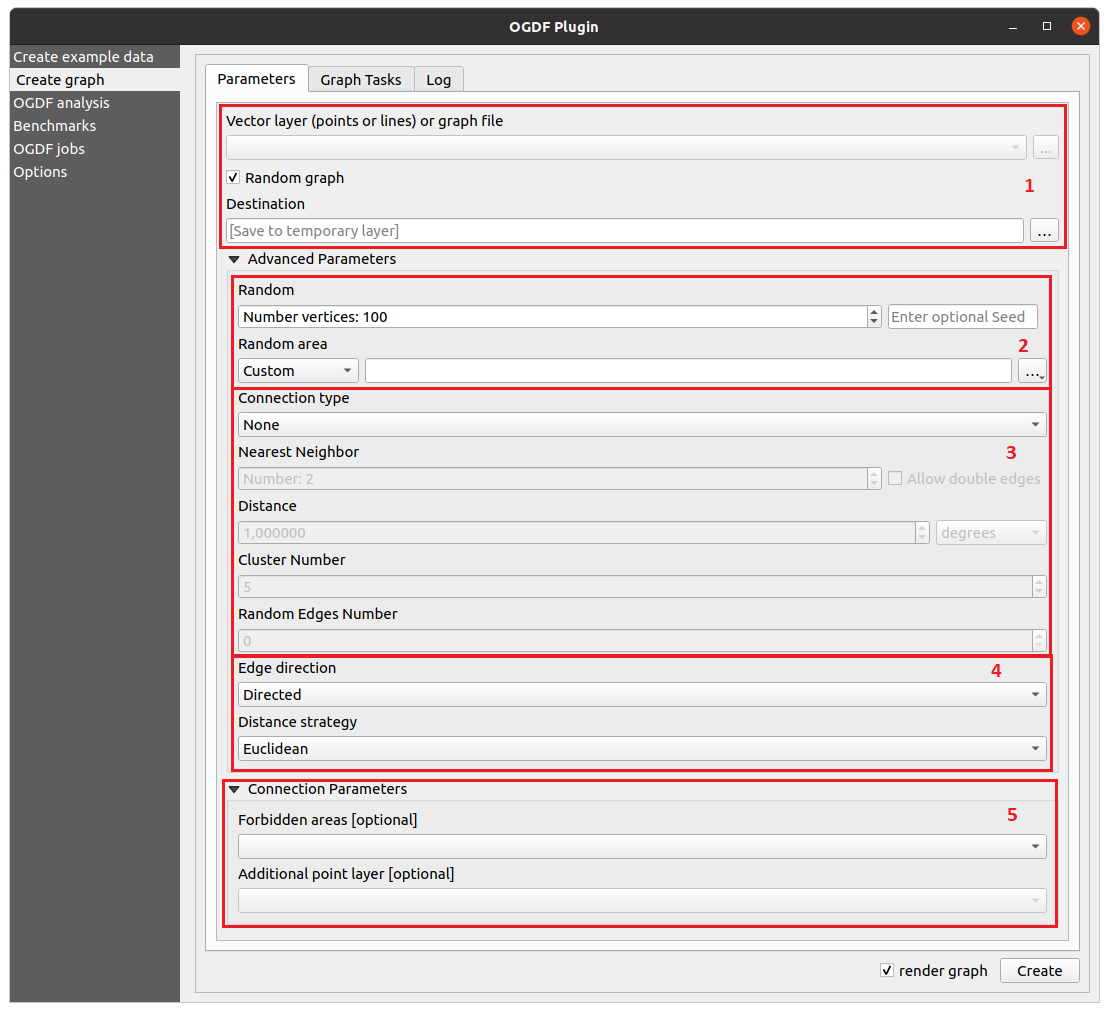
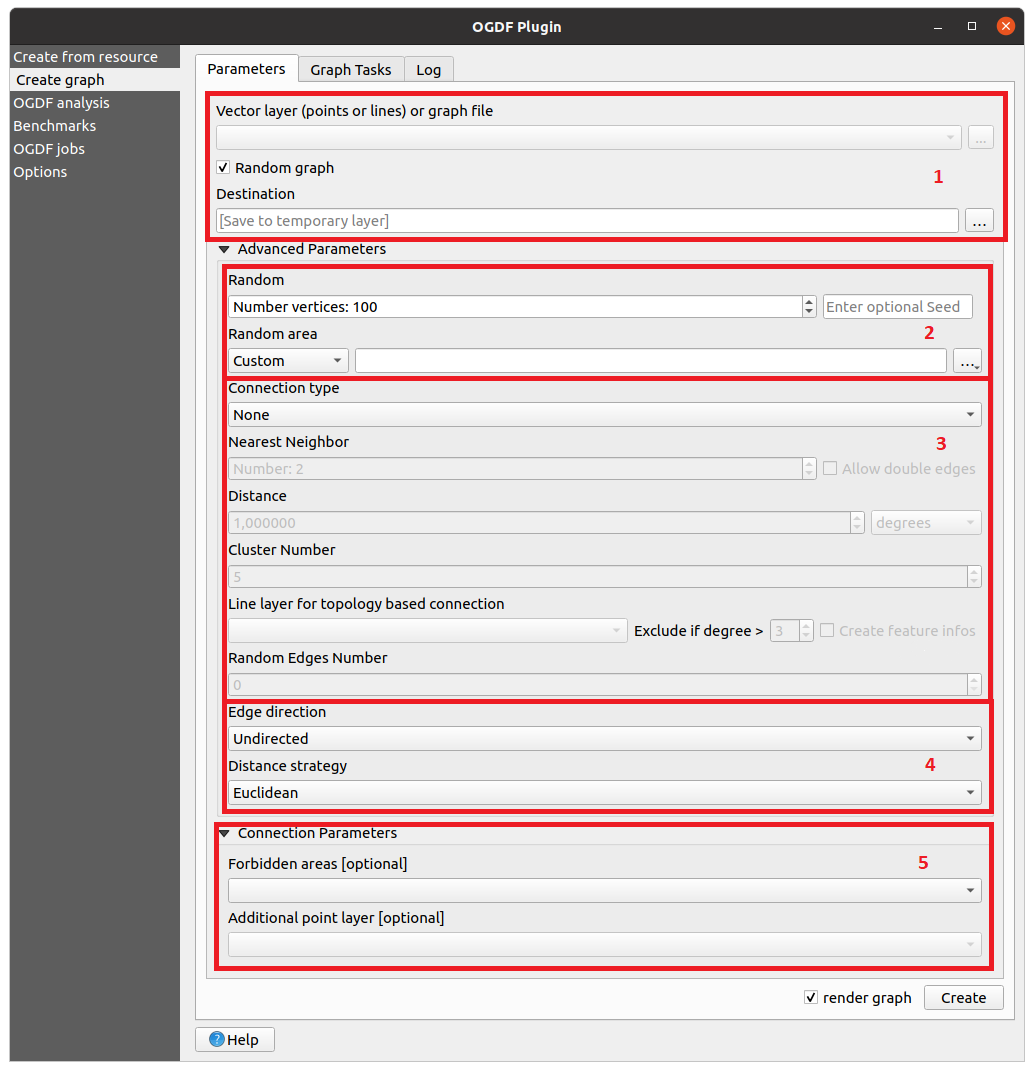
Commit

diff --git a/docs/graphbuilder.md b/docs/graphbuilder.md
@@ -22,20 +22,28 @@ By using  a line layer as input, you can also draw your own graph on the [QGIS-C
 If you don't want to use a vector layer as basis for the graph, it's possible to use a set of random vertices instead by checking the ```Random graph``` checkbox in area 1. In area 2 you can define different additional properties of the random points, such as the number of vertices and the area in which the vertices should be placed. There are some predefined possibilities for the area, but you can define your own custom area as well. 
 
 The last option for a random graph is an optional seed you can provide in order to replicate past results.
-The seed of an existing graph can be seen in the _graph layer window_ of the corresponding graph layer. The [carrier routing system (CRS)](https://docs.qgis.org/3.16/en/docs/training_manual/processing/crs.html) of the created `GraphLayer` is set to ```EPSG:4326``` by default. The CRS is changed by defining your own custom area. In this case, the CRS is set to the project-CRS. 
+The seed of an existing graph can be seen in the _graph layer window_ of the corresponding graph layer. The [coordinate reference system (CRS)](https://docs.qgis.org/3.16/en/docs/training_manual/processing/crs.html) of the created `GraphLayer` is set to ```EPSG:4326``` by default. The CRS is changed by defining your own custom area. In this case, the CRS is set to the project-CRS. 
 
 ## Connection Type
 If you use a point vector layer or random points as basis for the graph, you need to choose how you want to connect these points. The following list shows all available options for the _connection type_.
 
 
-- **```Nearest Neighbor```:** Connects every vertex to its nearest points. You can define the number of neighbours in area 3 as well. Additionally, it's possible to allow double edges by selecting the checkbox in area 3 next to the number of the ```Nearest Neighbour``` field.
+- **```Nearest Neighbor```:** Connects every vertex to its nearest points. You can define the number of neighbours in area 3. Additionally, it's possible to allow double edges by selecting the checkbox in area 3 next to the number of the ```Nearest Neighbour``` field.
 As the name suggests, this allows the existence of edges going into both directions. If this option is enabled, a graph with 10 vertices and 3 nearest neighbours has 30 edges. If the option is disabled, the amount of edges is smaller because it's not possible to find the given number of neighbours for the last vertices. Note that the resulting graph differs depending on your setting of the edge direction in area 4. If you select ```directed```, the amount of edges will be higher than in case of undirected edges. This is because
-in the undirected case, no edges will be inserted for a node which already has the desired amount of edges. Another thing to keep in mind is that a directed graph is acyclic whenever you did not allow double edges because for every processed node, only outgoing edges are inserted and afterwards the node is deleted, so no entering edge can be inserted.
+in the undirected case, no edges will be inserted for a node which already has the desired amount of edges. Another thing to keep in mind is that a directed graph is acyclic whenever you did not allow double edges because for every processed node, only outgoing edges are inserted and afterwards the node is no longer considered, so no entering edge can be inserted.
 - **```Complete```:** Connects every pair of vertices to a fully connected graph. Note that the graph is different depending on your setting of the edge direction in area 4. The amount of edges will be twice as high if you select ```directed``` because every edge is inserted into both directions which leads to a higher memory consumption and to a longer creation process. 
 - **```ClusterComplete```:** Creates a set of clusters. In area 3 you can define the amount of clusters. Every vertex inside the same cluster is connected with every other vertex in the same cluster. As with the normal complete graph, the graph is dependent on the setting of the edge direction in area 4. 
 - **```ClusterNN```:** Creates a set of clusters. Every vertex is only connected to vertices in the same clusters. In contrast to the ```ClusterComplete``` connection, every vertex is connected to its nearest neighbours. For this reason, all the options for the ```Nearest Neighbor``` connection apply. 
-- **```DistanceNN```:** Connects every vertex to every other vertex, which is in a specified distance to the vertex. You can define this distance in area 3. It's possible to set the distance in different units. If the CRS of the input vector layer uses degrees as units, the only unit possible is degrees. In case the input layer uses meters, you can choose from 8 different units. You can again allow double edges for directed graphs.
-- **```Random```:** Creates random connections. You can specify the amount of random edges in area 3.
+- **```DistanceNN```:** Connects every vertex to every other vertex, which is in a specified distance to the vertex. You can define this distance in area 3. It's possible to set the distance in different units. If the CRS of the input vector layer uses degrees as units, the only unit possible is degrees. In case the input layer uses meters, you can choose from 8 different units. You can again allow double edges.
+- **```Random```:** Creates random connections. You can specify the amount of random edges in area 3. It's possible for a directed graph that reciprocal edges exist. This is
+not possible for an undirected graph.
+- **```LineLayerBased```:** The idea of this connection type is to connect the vertices based on the topology of a given line layer. You can provide this line layer in area 3. In
+addition to this you have to provide a maximum distance in the ```Distance``` field in area 3. For the vertex connection first all lines within this distance are calculated. If
+you set this distance to 0, the nearest of all lines is taken into account. An exception is a vertex which is placed exactly on top of multiple lines. In this case all of these lines
+are taken. The vertices are connected through the use of a depth-first search procedure, which is executed on the graph created by the provided line layer. Next to the 
+```Line layer``` field you can specify a threshold value. During the creation process, a small threshold value will speed up the process, but some neccesary connections might not be
+made. If you want to export the graph to `.graphml`, you should check the ```Create feature infos``` checkbox. This will enable you to export all the feature attributes into the
+`.graphml file`.
 
 
 ## Drawn Graphs and Grid Graphs
@@ -77,7 +85,8 @@ A grid graph is a graph in which every vertex is connected to its four neighbour
 </a>
 </center>
 
-You can see that the selected CRS in this window is ```EPSG:3857```. You should choose this or another CRS that uses meters as its metric if you wish to select the horizontal and vertical spacing in meters or kilometers. Select ```Point``` as _grid type_, enter the desired spacing and choose an extend for the grid. Make sure that the extend and the spacing match correctly. Use this point set as input for the vector layer and choose ```DistanceNN``` as _connection type_. You have to enter the selected spacing and add a small number as the distance because the distance is exclusive.
+You can see that the selected CRS in this window is ```EPSG:3857```. You should choose this or another CRS that uses meters as its metric if you wish to select the horizontal and vertical spacing in meters or kilometers. Select ```Point``` as _grid type_, enter the desired spacing and choose an extend for the grid. Make sure that the extend and the spacing match correctly. Use this point set as input for the vector layer and choose ```DistanceNN``` as _connection type_. You have to enter the selected spacing and add a small number to it. Select this value
+as the distance.
 
 ## Additional Connection Parameters
 
@@ -146,9 +155,9 @@ The _random expression_ allows you to introduce randomness into the cost functio
 #### Raster Analysis
 There are a lot of different ways to use raster layers in the cost function definition. To address a specific raster layer you selected before, enter ```raster[index]```. Note that you can only access a raster layer that you inserted into the field you can see in the image on [Advanced Parameters](#AdvancedParameters) above. For example, to access the second raster layer you selected, enter ```raster[1]```. After that, you can select an analysis type for the raster layer. 
 
-In the corresponding image [above](#createGraph), you can see all the analysis options in the tree view of the Cost Function Window. The type names are self-explanatory. Nevertheless, you can see a short description in the _Cost Function Window_ if you select an analysis. Before you enter the analysis type, enter a ```:```, for example ```raster[0]:sum``` which adds up all the pixel values. 
+You can see all the analysis options in the tree view of the [Cost Function Window](#AdvancedWigdet). The type names are self-explanatory. Nevertheless, you can see a short description in the _Cost Function Window_ if you select an analysis. Before you enter the analysis type, enter a ```:```, for example ```raster[0]:sum``` which adds up all the pixel values. 
 
-As you can see in the tree view of the _Cost Function Builder Widget_, every analysis is listed with and without a ```sp``` prefix. If you do not include this prefix, all pixel values an edge is crossing are included. 
+As you can see in the tree view of the [Cost Function Window](#AdvancedWigdet), every analysis is listed with and without a ```sp``` prefix. If you do not include this prefix, all pixel values an edge is crossing are included. 
 
 You can see a visualisation of the included pixels for one edge in the image below:
 
@@ -174,7 +183,7 @@ All pixels that were visited by the algorithm are white. All pixels that the alg
 
 It's important to know that the shortest path is only guaranteed to be exact if the heuristic index is set to 0. There exists a trade-off between the accuracy of the shortest path and the execution time. Basically, if you increase the index, the execution time gets smaller and the result gets more inaccurate. 
 
-There are four special cases of raster analysis which are described in the paragraph about [if conditions](#if-Condition), because they can only be used in an if condition. You can also get information about the distance of the shortest path by inserting the \texttt{sp} prefix in front of one of the distance metrics. For example, ```raster[0]:spEuclidean(0)``` calculates the euclidean distance of the shortest paths with a heuristic index of 0. Note that this distance can only be as accurate as the resolution of the raster layer and that the calculation assumes that the pixel height and width are identical. It will lead to inaccurate results if this is not the case.
+There are four special cases of raster analysis which are described in the paragraph about [if conditions](#if-Condition) because they can only be used in an if condition. You can also get information about the distance of the shortest path by inserting the ```sp``` prefix in front of one of the distance metrics. For example, ```raster[0]:spEuclidean(0)``` calculates the euclidean distance of the shortest paths with a heuristic index of 0. Note that this distance can only be as accurate as the resolution of the raster layer and that the calculation assumes that the pixel height and width are identical. It will lead to inaccurate results if this is not the case.
 
 #### if Condition
 
@@ -188,15 +197,14 @@ An example for a complete if expression is ```if(euclidean < 100; 10; 20)```. In
 There are a total of 6 expressions that can only be used in the condition of an if expression. The first two refer to polygon layers you can specify in the field you can see in the image on [AdvancedParameters](#AdvancedParameters). You have the possibility to test whether an edge crosses a polygon of a specific polygon layer or to test whether it lies inside one. To identify the polygon layer you wish to use, enter ```polygon[index]``` with index referring to the place the layer was inserted. For example, ```polygon[2]``` refers to the third polygon layer you inserted in the field. After that, you have to type a ```:``` followed by either ```crossesPolygon``` or ```insidePolygon```. This polygon expression will be translated to ```true``` or ```false```. For example, you can insert the formula 
 ```if(polygon[0]:crossesPolygon == True; 10; 20)``` to set all the edges crossing a polygon of the first inserted polygon layer to 10 and all other edges to 20.
  
-The other 4 expressions refer to raster layers. First you have to specify the raster layer. After that, insert again a ```:```, followed by ```pixelValue``` or ```percentOfValues```. Similar to the shortest path options described in the previous paragraph, you can use the ```sp``` prefix to use the shortest path pixel values instead of the pixels which are crossed by the edge. You can use ```pixelValue``` to test if at least one of the pixel values fulfills the condition. For example, the condition ```raster[0]:pixelValue == 100``` checks if at least one pixel value is equal to 100. If you use the ``` sp``` prefix, you have to give the heuristic index in round brackets again. Use ```percentOfValues``` to test if a specified percentage of the pixel values satisfy the condition. You can declare this percentage in round brackets. For example, the condition ```raster[0]:percentOfValues(50) > 100``` tests whether 50 percent or more of the pixel values are greater then 100. If you use the ```sp``` prefix, you have to specify two values in the round brackets, separated by a comma: first the heuristic index for the shortest path algorithm and second the percentage. For example, ``` raster[0]:spPercentOfValues(3,50) > 100```, with 3 being the heuristic index and 50 being the percentage. 
+The other 4 expressions refer to raster layers. First you have to specify the raster layer. After that, insert again a ```:```, followed by ```pixelValue``` or ```percentOfValues```. Similar to the shortest path options described in the previous paragraph, you can use the ```sp``` prefix in front of these two identifiers to use the shortest path pixel values instead of the pixels which are crossed by the edge. You can use ```pixelValue``` to test if at least one of the pixel values fulfills the condition. For example, the condition ```raster[0]:pixelValue == 100``` checks if at least one pixel value is equal to 100. If you use the ``` sp``` prefix, you have to give the heuristic index in round brackets again. Use ```percentOfValues``` to test if a specified percentage of the pixel values satisfy the condition. You can declare this percentage in round brackets. For example, the condition ```raster[0]:percentOfValues(50) > 100``` tests whether 50 percent or more of the pixel values are greater then 100. If you use the ```sp``` prefix, you have to specify two values in the round brackets, separated by a comma: First the heuristic index for the shortest path algorithm and second the percentage. For example, ``` raster[0]:spPercentOfValues(3,50) > 100```, with 3 being the heuristic index and 50 being the percentage. 
 
-All the examples above are very simple expressions. You can also combine all the expressions to form more complex ones. Examples for that are listed below. Note that you can nest all the expressions freely as long as you don't nest the same expression. So for example it's not possible to create a formula ```random(random(10,20),100)```. Another limitation exists due to the fact that you can not negate any variable, since there has to be a variable on each side of an operator. So for example ```-euclidean``` is not possible.
-As a workaround you can use ```0-euclidean```.
+#### Examples
 
+All the examples above are very simple expressions. You can also combine all the expressions to form more complex ones. 
 In the following, a list of examples is given, starting from very simple ones to more complex examples. An explanation is provided for every formula as well. Not all of the formulas make sense to use. The examples should only outline the basic capabilities of the system.
 
-
-| if Condition | Description |
+| Cost Function | Description |
 | ------------ | ------------- |
 | ```42```              | Constant cost of 42 for every edge|
 | ```math.pow(10, 2)``` | Evaluates to \(10^2 = 100\)        |
@@ -206,6 +214,11 @@ In the following, a list of examples is given, starting from very simple ones to
 | ```if(raster[0]:spEuclidean(0) < random(1,5) * euclidean; math.cos(raster[0]:spSum(0) + random(euclidean, manhattan)); math.sqrt(raster[0]:sum))``` | Similar to the previous example, but some embedded <br /> random and math functions|
 | ```random(if(polygon[0]:crossesPolygon == True; euclidean; manhattan), if(polygon[0]:insidePolygon == True ;euclidean*2;manhattan*2))``` |Calculates a random value. The upper and lower bound <br />are dependant on the evaluation of two if expressions<br /> which use polygon expressions in their conditions|
 
+
+### Limitations and Syntax Check
+
+You can only nest all the expressions freely as long as you don't nest the same expression. So for example it's not possible to create a formula ```random(random(10,20),100)```. Another limitation exists due to the fact that you can not negate any variable, since there has to be a variable on each side of an operator. So for example ```-euclidean``` is not possible.
+As a workaround you can use ```0-euclidean```.
 
 To make it easier for you to specify the formula, a check is performed constantly as you type in your cost function. You can see the result of this syntax check below the text field for the cost function in the _Cost Function Window_. Additionally to a brief description of the problem, the part where the problem is located is highlighted as well. 
 

diff --git a/docs/testing.md b/docs/testing.md
@@ -22,6 +22,8 @@ or no selection for the first parameter. Naturally, the selectable parameters ch
 For example if you choose `Graph` and `Algorithm` for the first parameter selection, the resulting plot breaks down the results by graphs and algorithms. It shows a different colour for all the possible combinations of graphs and algorithms. Of course, it is possible that multiple values exist for one data point in the plot. In this case the system automatically calculates the average over all the values.
 The last thing you need to do is to define the type of plot you wish to create in <span style="color:#e60000">area 6</span>, but you can also choose to create multiple plots for the same data.
 In addition you can select some options regarding the design of the plot.
+For more computationally intensive analysis and categorization options a call to the OGDF is performed automatically.
 
 At the bottom of the tab you can specify a path to a folder. If you check the `Create .csv file` checkbox, multiple csv-files will be created and put into this folder. One of these files contains all the executions and values associated with the calls and one file is created for every benchmark visualisation you created, containing all the concrete numbers of the plot.  The name of the file containing all information starts with
 `Complete\_Benchmark` and the filenames for the visualisations all start with `BenchmarkResult`. To differentiate the files, the file names end with the date and time of the creation.
+By checking the `Complete analysis` checkbox you can specify if you want to make all available analyses or only those, which do not require a call to the OGDF. 
